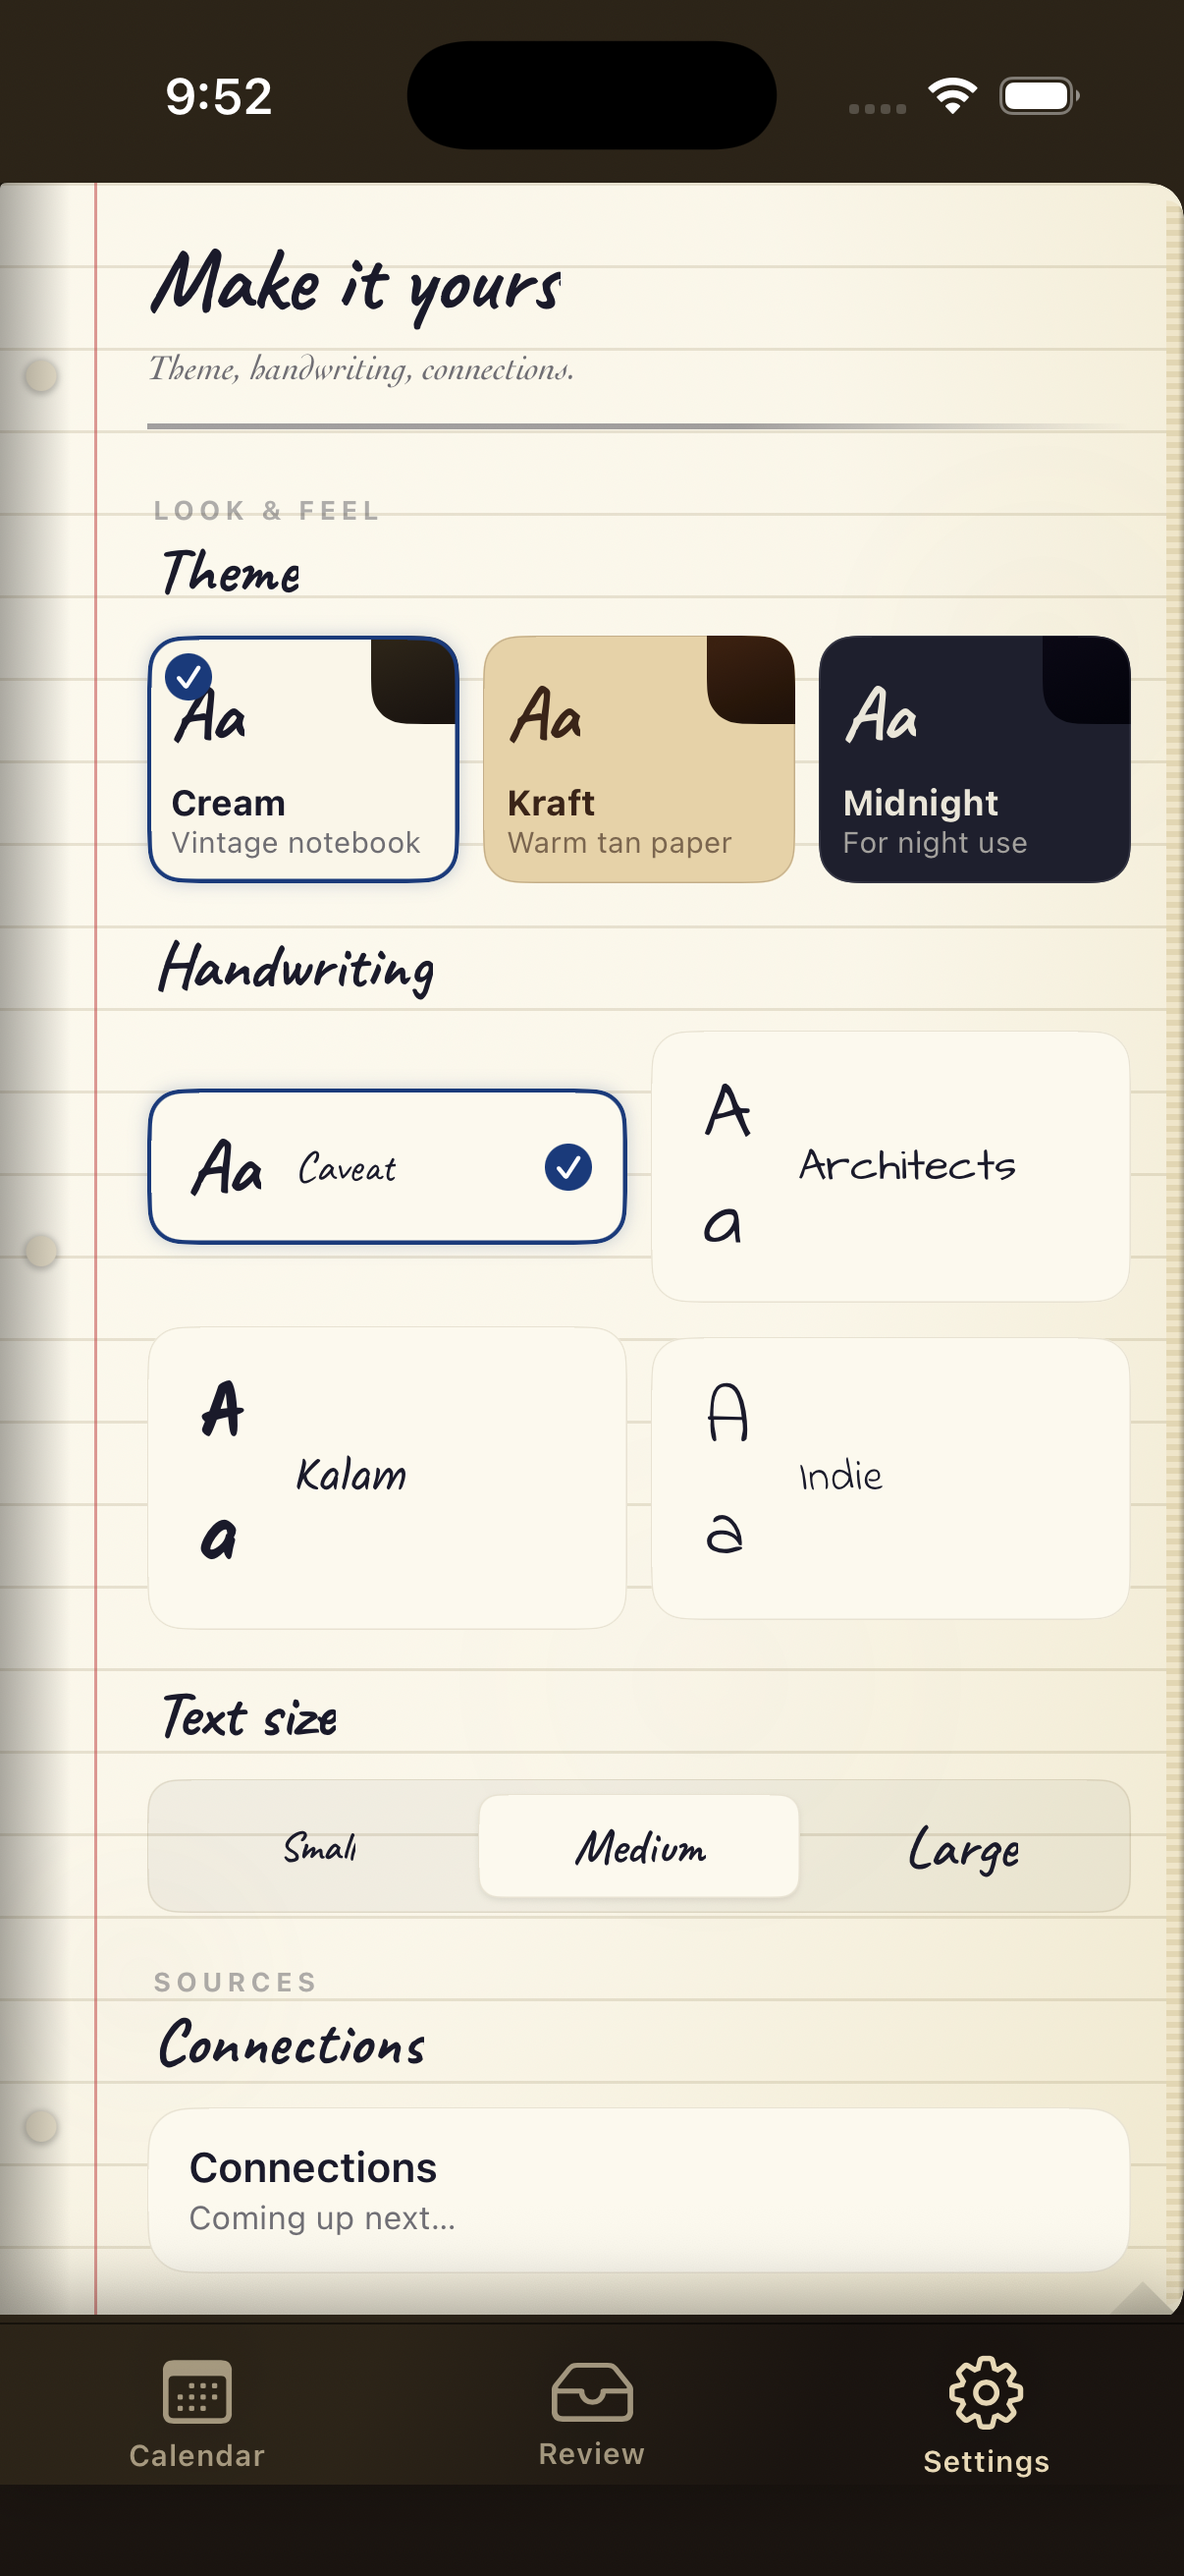
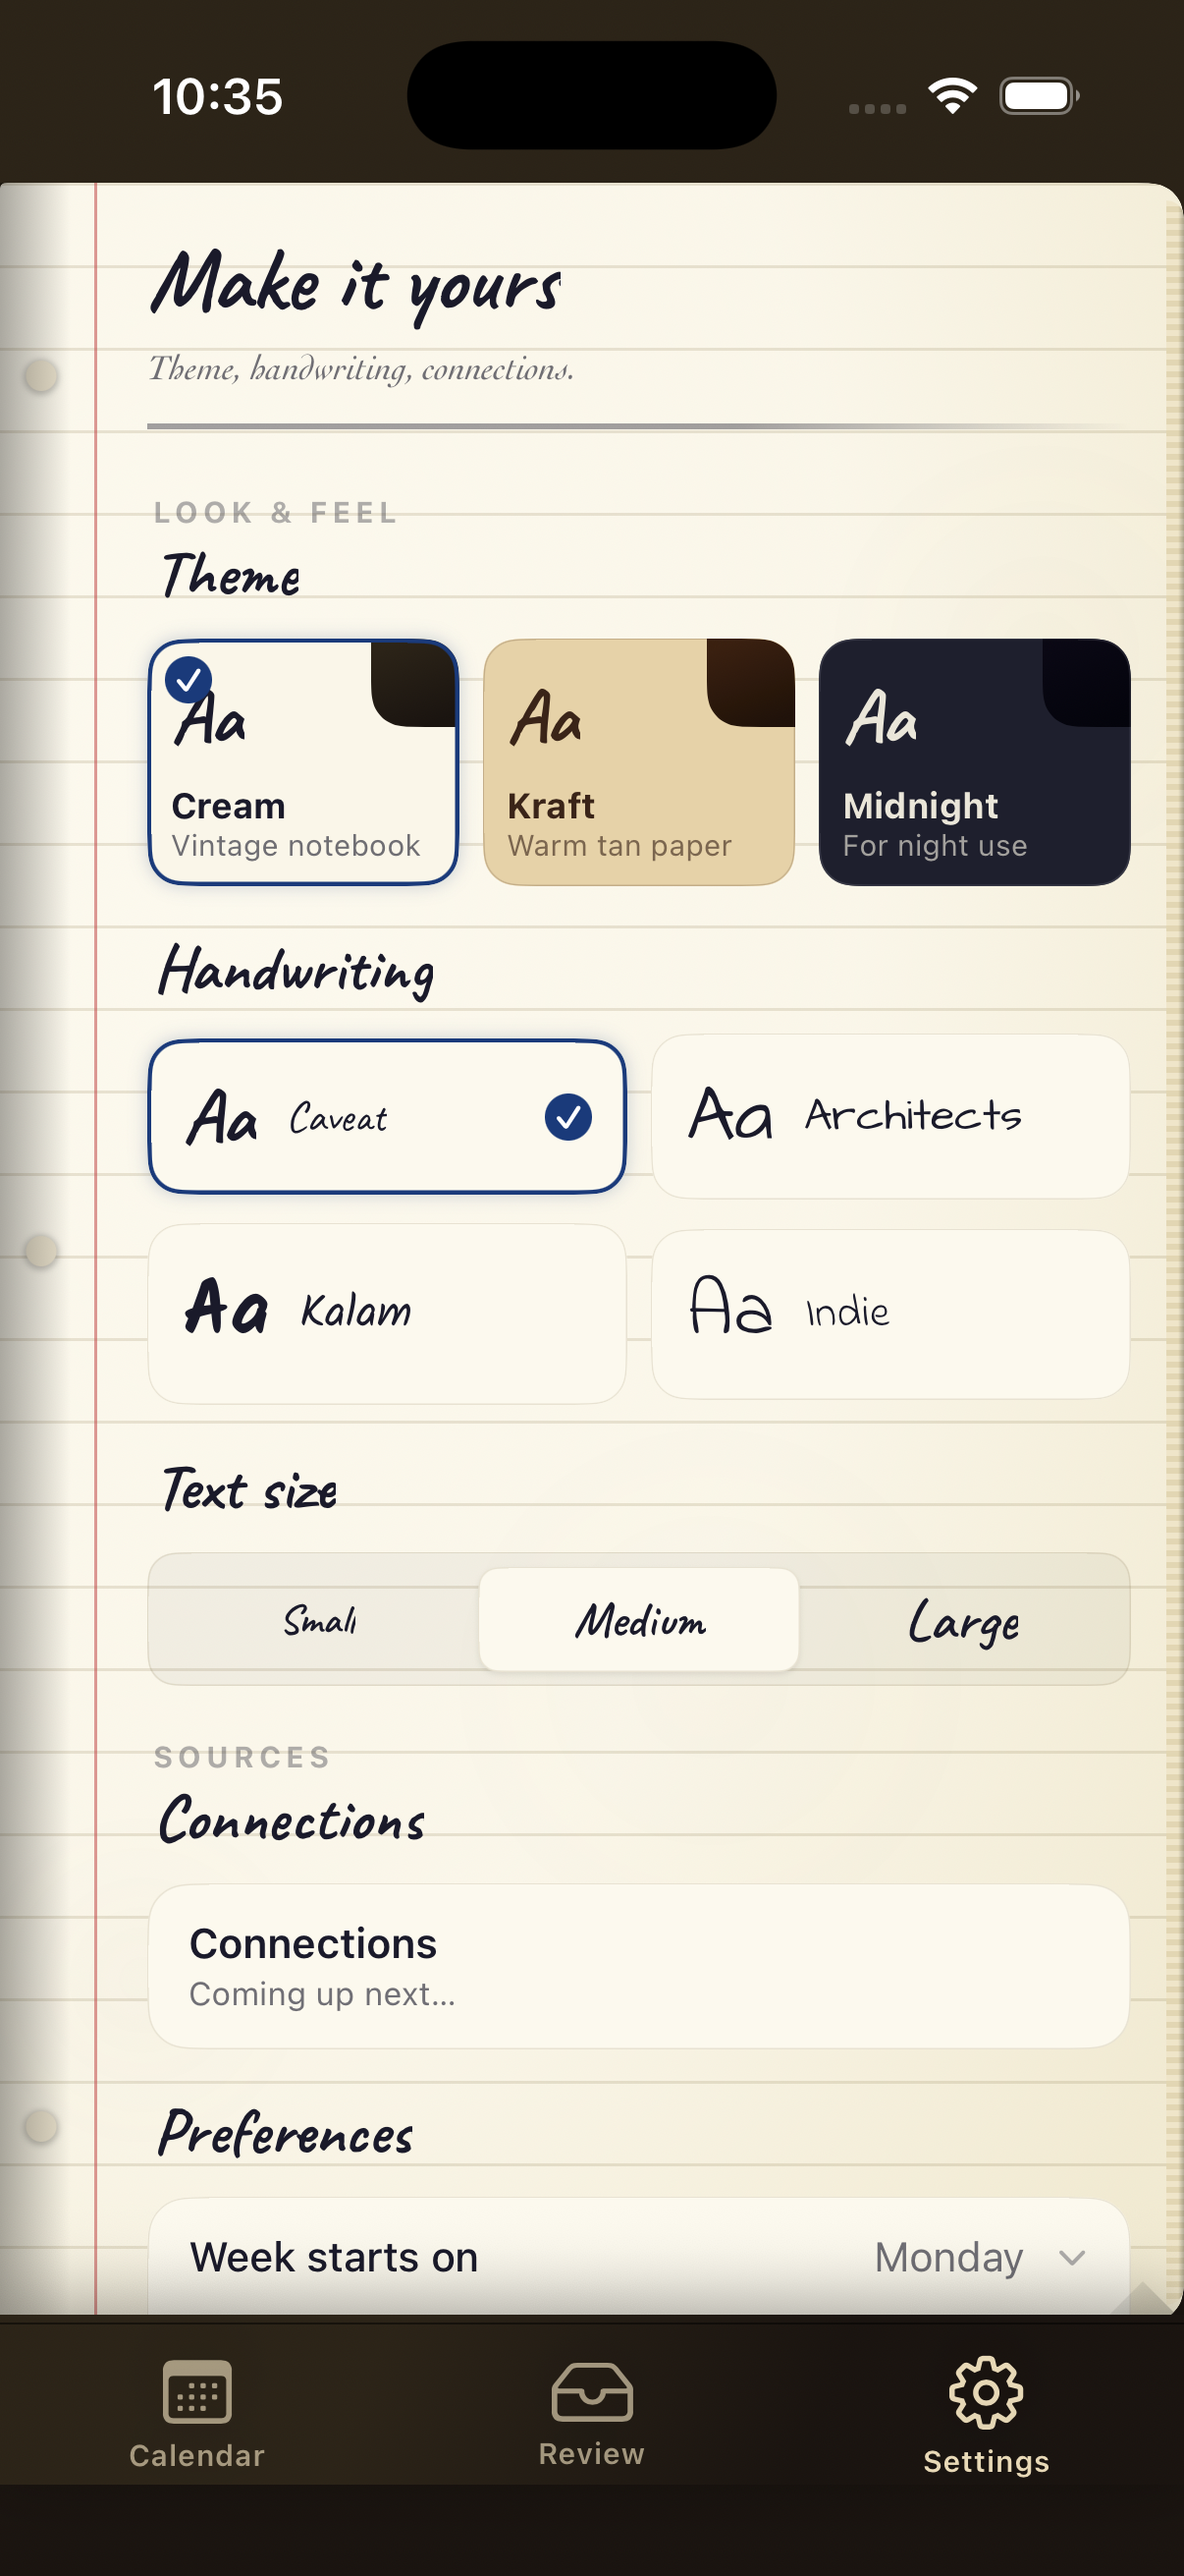
fix(phase-16): FontCard 'Aa' sample stays inline for wide-glyph fonts
The fixed .frame(width: 28) constraint forced SwiftUI to wrap 'Aa' onto
two lines for Architects Daughter / Kalam / Indie Flower at 26pt — those
families have wider glyphs than Caveat. The mock's CSS width: 28 doesn't
cause wrap because HTML inline text doesn't wrap on character boundaries,
but SwiftUI does.

Switch to .lineLimit(1) + .fixedSize(horizontal: true) so 'Aa' renders at
its natural width regardless of family. Refresh the canonical screenshot.

diff --git a/WeeklyPlanner/Features/Settings/FontCard.swift b/WeeklyPlanner/Features/Settings/FontCard.swift
@@ -19,7 +19,8 @@ struct FontCard: View {
                 Text("Aa")
                     .font(sampleFont.font(at: 26, weight: .bold))
                     .foregroundStyle(theme.ink)
-                    .frame(width: 28, alignment: .center)
+                    .lineLimit(1)
+                    .fixedSize(horizontal: true, vertical: false)
 
                 Text(sampleFont.displayName)
                     .font(sampleFont.font(at: 15, weight: .regular))
